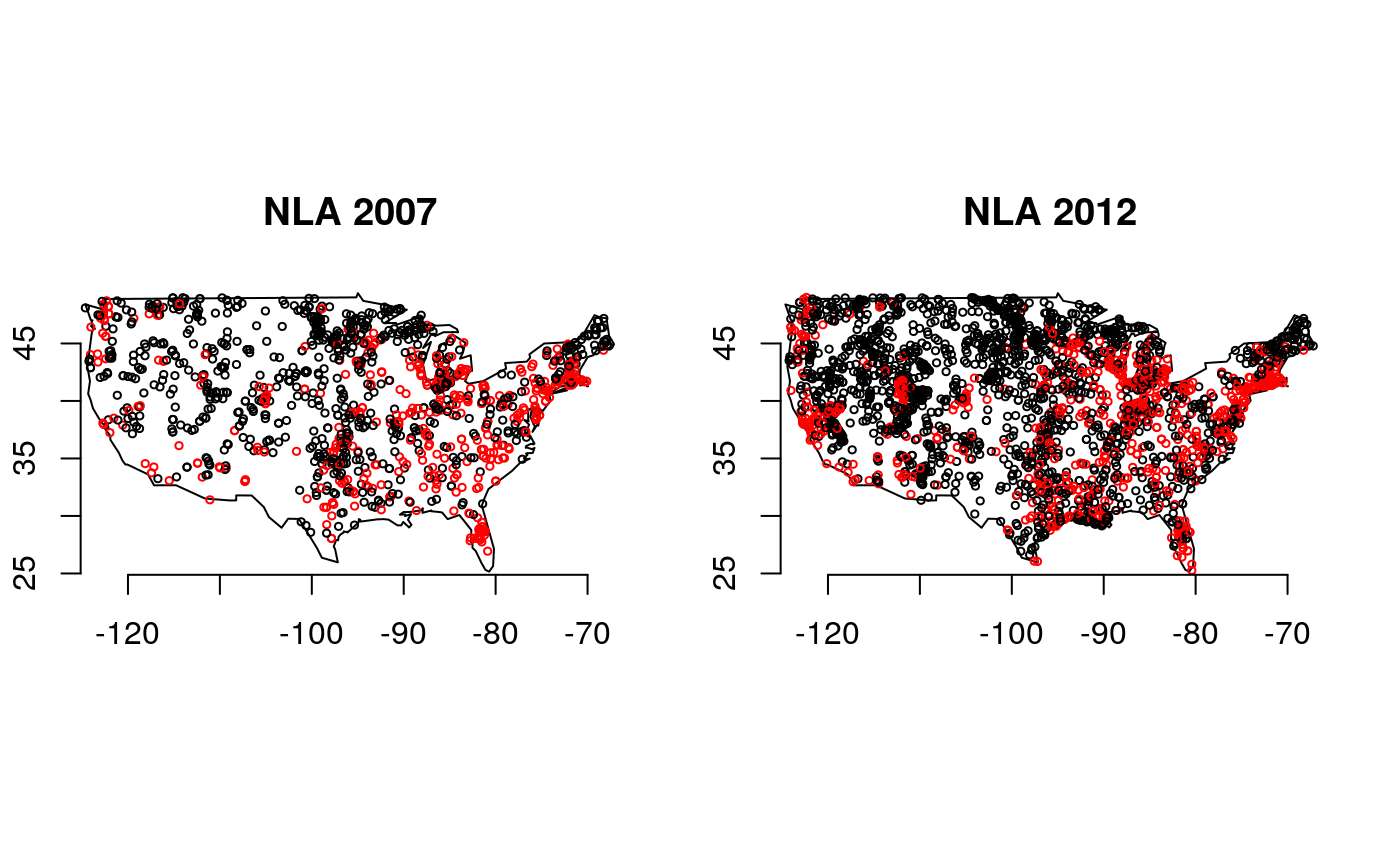
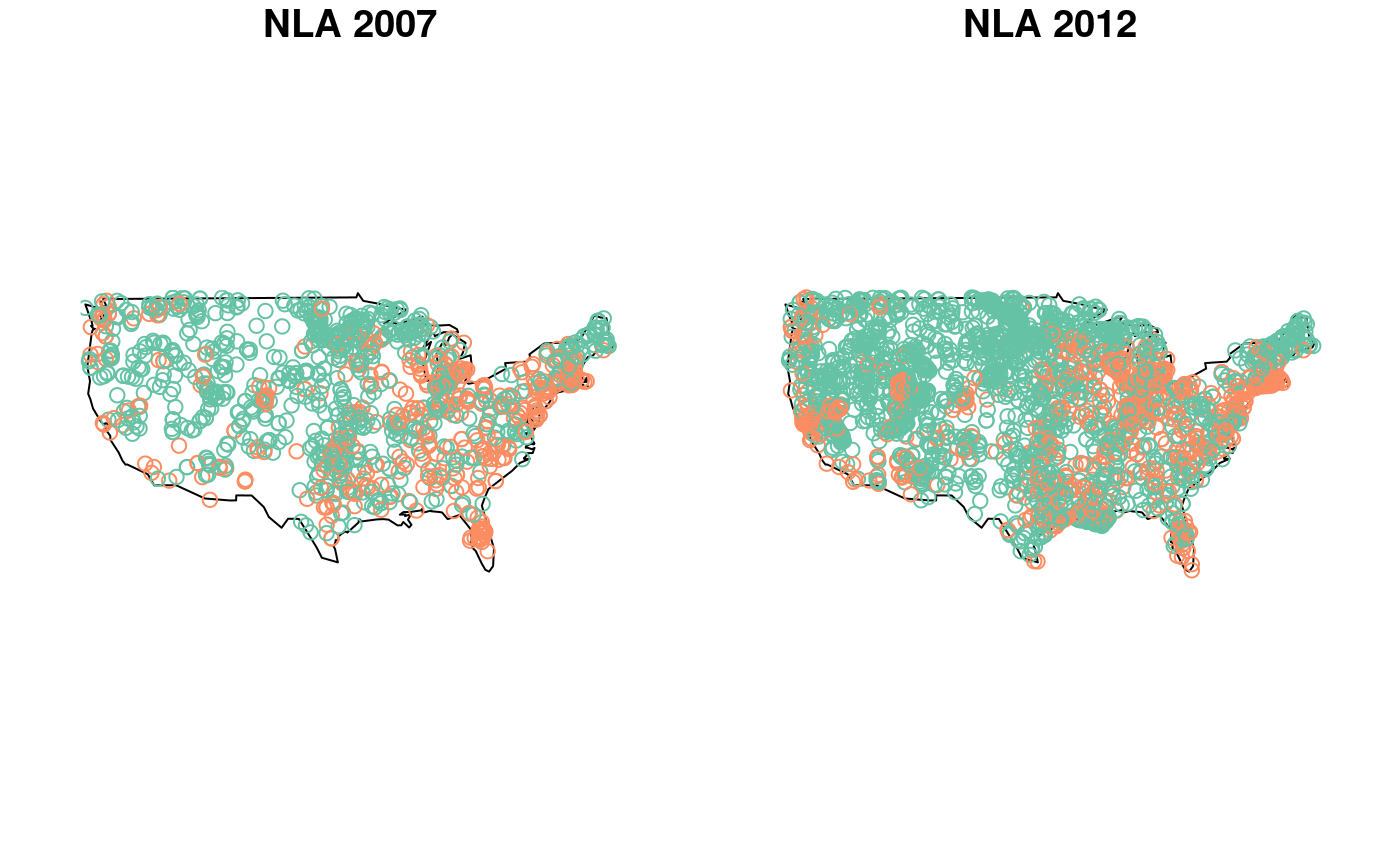
fix vignette builds, path typo

diff --git a/docs/articles/comparison_2007-2012.html b/docs/articles/comparison_2007-2012.html
@@ -92,32 +92,26 @@
     
     
 <div class="sourceCode"><pre class="sourceCode r"><code class="sourceCode r"><span class="kw">library</span>(nlaR)</code></pre></div>
-<div class="sourceCode"><pre class="sourceCode r"><code class="sourceCode r"><span class="kw">library</span>(sp)
-<span class="kw">library</span>(maps)
+<div class="sourceCode"><pre class="sourceCode r"><code class="sourceCode r"><span class="kw">library</span>(sf)</code></pre></div>
+<pre><code>## Linking to GEOS 3.6.2, GDAL 2.2.3, proj.4 4.9.3</code></pre>
+<div class="sourceCode"><pre class="sourceCode r"><code class="sourceCode r"><span class="kw">library</span>(maps)
 
 <span class="kw">par</span>(<span class="dt">mfrow =</span> <span class="kw">c</span>(<span class="dv">1</span>, <span class="dv">2</span>))
 
-dt &lt;-<span class="st"> </span><span class="kw">tryCatch</span>(<span class="kw"><a href="../reference/nla_load.html">nla_load</a></span>(<span class="dv">2007</span>), <span class="dt">error =</span> <span class="cf">function</span>(e){ 
-        <span class="kw"><a href="../reference/nla_get.html">nla_get</a></span>(<span class="dv">2007</span>)
-        <span class="kw"><a href="../reference/nla_compile.html">nla_compile</a></span>(<span class="dv">2007</span>)
-        <span class="kw"><a href="../reference/nla_load.html">nla_load</a></span>(<span class="dv">2007</span>)}
-      )
+dt &lt;-<span class="st"> </span><span class="kw"><a href="../reference/nla_load.html">nla_load</a></span>(<span class="dv">2007</span>)
 
-sp<span class="op">::</span><span class="kw"><a href="http://www.rdocumentation.org/packages/sp/topics/coordinates">coordinates</a></span>(dt<span class="op">$</span>SampledLakeInformation) &lt;-<span class="st"> </span><span class="er">~</span><span class="st"> </span>LON_DD <span class="op">+</span><span class="st"> </span>LAT_DD
+dt &lt;-<span class="st"> </span><span class="kw"><a href="http://www.rdocumentation.org/packages/sf/topics/st_as_sf">st_as_sf</a></span>(dt<span class="op">$</span>SampledLakeInformation, <span class="dt">coords =</span> <span class="kw">c</span>(<span class="st">"LON_DD"</span>, <span class="st">"LAT_DD"</span>), <span class="dt">crs =</span> <span class="dv">4326</span>)
+
 <span class="kw"><a href="http://www.rdocumentation.org/packages/maps/topics/map">map</a></span>(<span class="st">"usa"</span>)
+<span class="kw"><a href="http://www.rdocumentation.org/packages/sf/topics/plot">plot</a></span>(dt[<span class="st">'URBAN'</span>], <span class="dt">add =</span> <span class="ot">TRUE</span>, <span class="dt">reset =</span> <span class="ot">FALSE</span>)
 <span class="kw">title</span>(<span class="st">"NLA 2007"</span>)
-<span class="kw">points</span>(dt<span class="op">$</span>SampledLakeInformation,
-       <span class="dt">col =</span> <span class="kw">factor</span>(dt<span class="op">$</span>SampledLakeInformation<span class="op">$</span>URBAN), <span class="dt">cex =</span> <span class="fl">0.5</span>)
-<span class="kw">axis</span>(<span class="dv">1</span>); <span class="kw">axis</span>(<span class="dv">2</span>)
-
 
 dt &lt;-<span class="st"> </span><span class="kw"><a href="../reference/nla_load.html">nla_load</a></span>(<span class="dv">2012</span>)
-sp<span class="op">::</span><span class="kw"><a href="http://www.rdocumentation.org/packages/sp/topics/coordinates">coordinates</a></span>(dt<span class="op">$</span>wide_siteinfo) &lt;-<span class="st"> </span><span class="er">~</span><span class="st"> </span>LON_DD83 <span class="op">+</span><span class="st"> </span>LAT_DD83
+dt &lt;-<span class="st"> </span><span class="kw"><a href="http://www.rdocumentation.org/packages/sf/topics/st_as_sf">st_as_sf</a></span>(dt<span class="op">$</span>wide_siteinfo, <span class="dt">coords =</span> <span class="kw">c</span>(<span class="st">"LON_DD83"</span>, <span class="st">"LAT_DD83"</span>), <span class="dt">crs =</span> <span class="dv">4326</span>)
+
 <span class="kw"><a href="http://www.rdocumentation.org/packages/maps/topics/map">map</a></span>(<span class="st">"usa"</span>)
-<span class="kw">title</span>(<span class="st">"NLA 2012"</span>)
-<span class="kw">points</span>(dt<span class="op">$</span>wide_siteinfo,
-       <span class="dt">col =</span> <span class="kw">factor</span>(dt<span class="op">$</span>wide_siteinfo<span class="op">$</span>URBAN), <span class="dt">cex =</span> <span class="fl">0.5</span>)
-<span class="kw">axis</span>(<span class="dv">1</span>); <span class="kw">axis</span>(<span class="dv">2</span>)</code></pre></div>
+<span class="kw"><a href="http://www.rdocumentation.org/packages/sf/topics/plot">plot</a></span>(dt[<span class="st">'URBAN'</span>], <span class="dt">add =</span> <span class="ot">TRUE</span>, <span class="dt">reset =</span> <span class="ot">FALSE</span>)
+<span class="kw">title</span>(<span class="st">"NLA 2012"</span>)</code></pre></div>
 <p><img src="comparison_2007-2012_files/figure-html/map%20lakes-1.png" width="700"></p>
   </div>
 

diff --git a/docs/articles/summary_2012.html b/docs/articles/summary_2012.html
@@ -96,11 +96,7 @@
 <span class="kw">library</span>(purrr)
 
 <span class="kw">library</span>(nlaR)</code></pre></div>
-<div class="sourceCode"><pre class="sourceCode r"><code class="sourceCode r">dt &lt;-<span class="st"> </span><span class="kw">tryCatch</span>(<span class="kw"><a href="../reference/nla_load.html">nla_load</a></span>(<span class="dv">2012</span>), <span class="dt">error =</span> <span class="cf">function</span>(e){ 
-        <span class="kw"><a href="../reference/nla_get.html">nla_get</a></span>(<span class="dv">2012</span>)
-        <span class="kw"><a href="../reference/nla_compile.html">nla_compile</a></span>(<span class="dv">2012</span>)
-        <span class="kw"><a href="../reference/nla_load.html">nla_load</a></span>(<span class="dv">2012</span>)}
-      )</code></pre></div>
+<div class="sourceCode"><pre class="sourceCode r"><code class="sourceCode r">dt &lt;-<span class="st"> </span><span class="kw"><a href="../reference/nla_load.html">nla_load</a></span>(<span class="dv">2012</span>)</code></pre></div>
 <div class="sourceCode"><pre class="sourceCode r"><code class="sourceCode r">tp &lt;-<span class="st"> </span><span class="kw"><a href="http://dplyr.tidyverse.org/reference/select.html">select</a></span>(dt<span class="op">$</span>waterchem_wide, PTL_RESULT, UID) <span class="op">%&gt;%</span>
 <span class="st">      </span><span class="kw"><a href="http://dplyr.tidyverse.org/reference/join.html">left_join</a></span>(<span class="kw"><a href="http://dplyr.tidyverse.org/reference/select.html">select</a></span>(dt<span class="op">$</span>wide_siteinfo, AREA_HA, SITE_ID, UID)) <span class="op">%&gt;%</span>
 <span class="st">      </span><span class="kw"><a href="http://dplyr.tidyverse.org/reference/group_by.html">group_by</a></span>(SITE_ID) <span class="op">%&gt;%</span>

diff --git a/docs/index.html b/docs/index.html
@@ -111,11 +111,6 @@ devtools<span class="op">::</span><span class="kw"><a href="http://www.rdocument
 </blockquote>
 <div class="sourceCode"><pre class="sourceCode r"><code class="sourceCode r"><span class="kw"><a href="reference/nla_get.html">nla_get</a></span>(<span class="dv">2012</span>)</code></pre></div>
 </div>
-<div id="compile-to-rds-object" class="section level3">
-<h3 class="hasAnchor">
-<a href="#compile-to-rds-object" class="anchor"></a>Compile to <code>rds</code> object</h3>
-<div class="sourceCode"><pre class="sourceCode r"><code class="sourceCode r"><span class="kw"><a href="reference/nla_compile.html">nla_compile</a></span>(<span class="dv">2012</span>)</code></pre></div>
-</div>
 <div id="load-data-from-local-machine" class="section level3">
 <h3 class="hasAnchor">
 <a href="#load-data-from-local-machine" class="anchor"></a>Load data from local machine</h3>

diff --git a/docs/reference/nla_compile.html b/docs/reference/nla_compile.html
@@ -120,7 +120,7 @@
     
     </div>
 
-    <pre class="usage"><span class='fu'>nla_compile</span>(<span class='no'>year</span>)</pre>
+    <pre class="usage"><span class='fu'>nla_compile</span>(<span class='no'>year</span>, <span class='no'>local_path</span>)</pre>
     
     <h2 class="hasAnchor" id="arguments"><a class="anchor" href="#arguments"></a>Arguments</h2>
     <table class="ref-arguments">
@@ -128,6 +128,10 @@
     <tr>
       <th>year</th>
       <td><p>numeric choice of 2007 or 2012.</p></td>
+    </tr>
+    <tr>
+      <th>local_path</th>
+      <td><p>folder path to raw downloads from `nla_get`</p></td>
     </tr>
     </table>
     

diff --git a/docs/reference/nla_get.html b/docs/reference/nla_get.html
@@ -138,7 +138,7 @@
 
     <h2 class="hasAnchor" id="examples"><a class="anchor" href="#examples"></a>Examples</h2>
     <pre class="examples"><span class='co'># NOT RUN {</span>
-<span class='fu'>nla_get</span>()
+<span class='fu'>nla_get</span>(<span class='fl'>2012</span>)
 <span class='co'># }</span></pre>
   </div>
   <div class="col-md-3 hidden-xs hidden-sm" id="sidebar">
